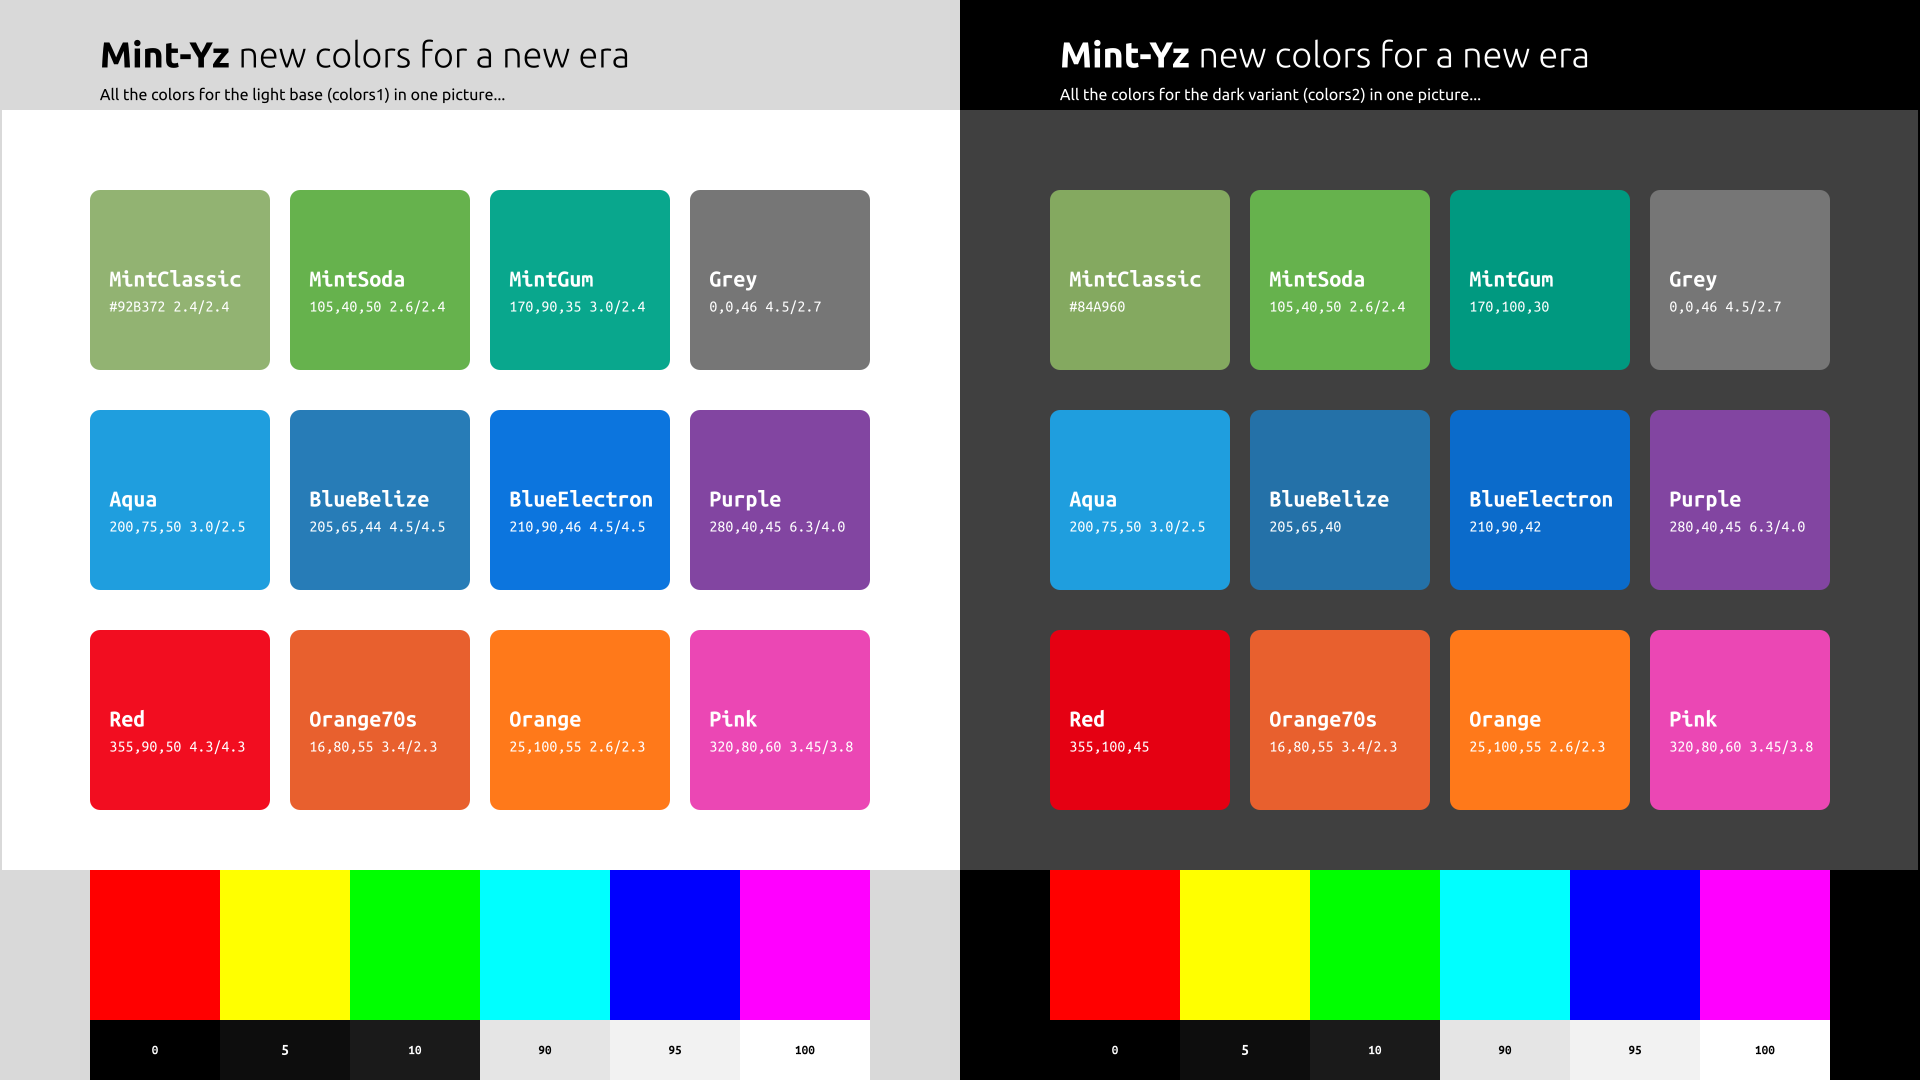
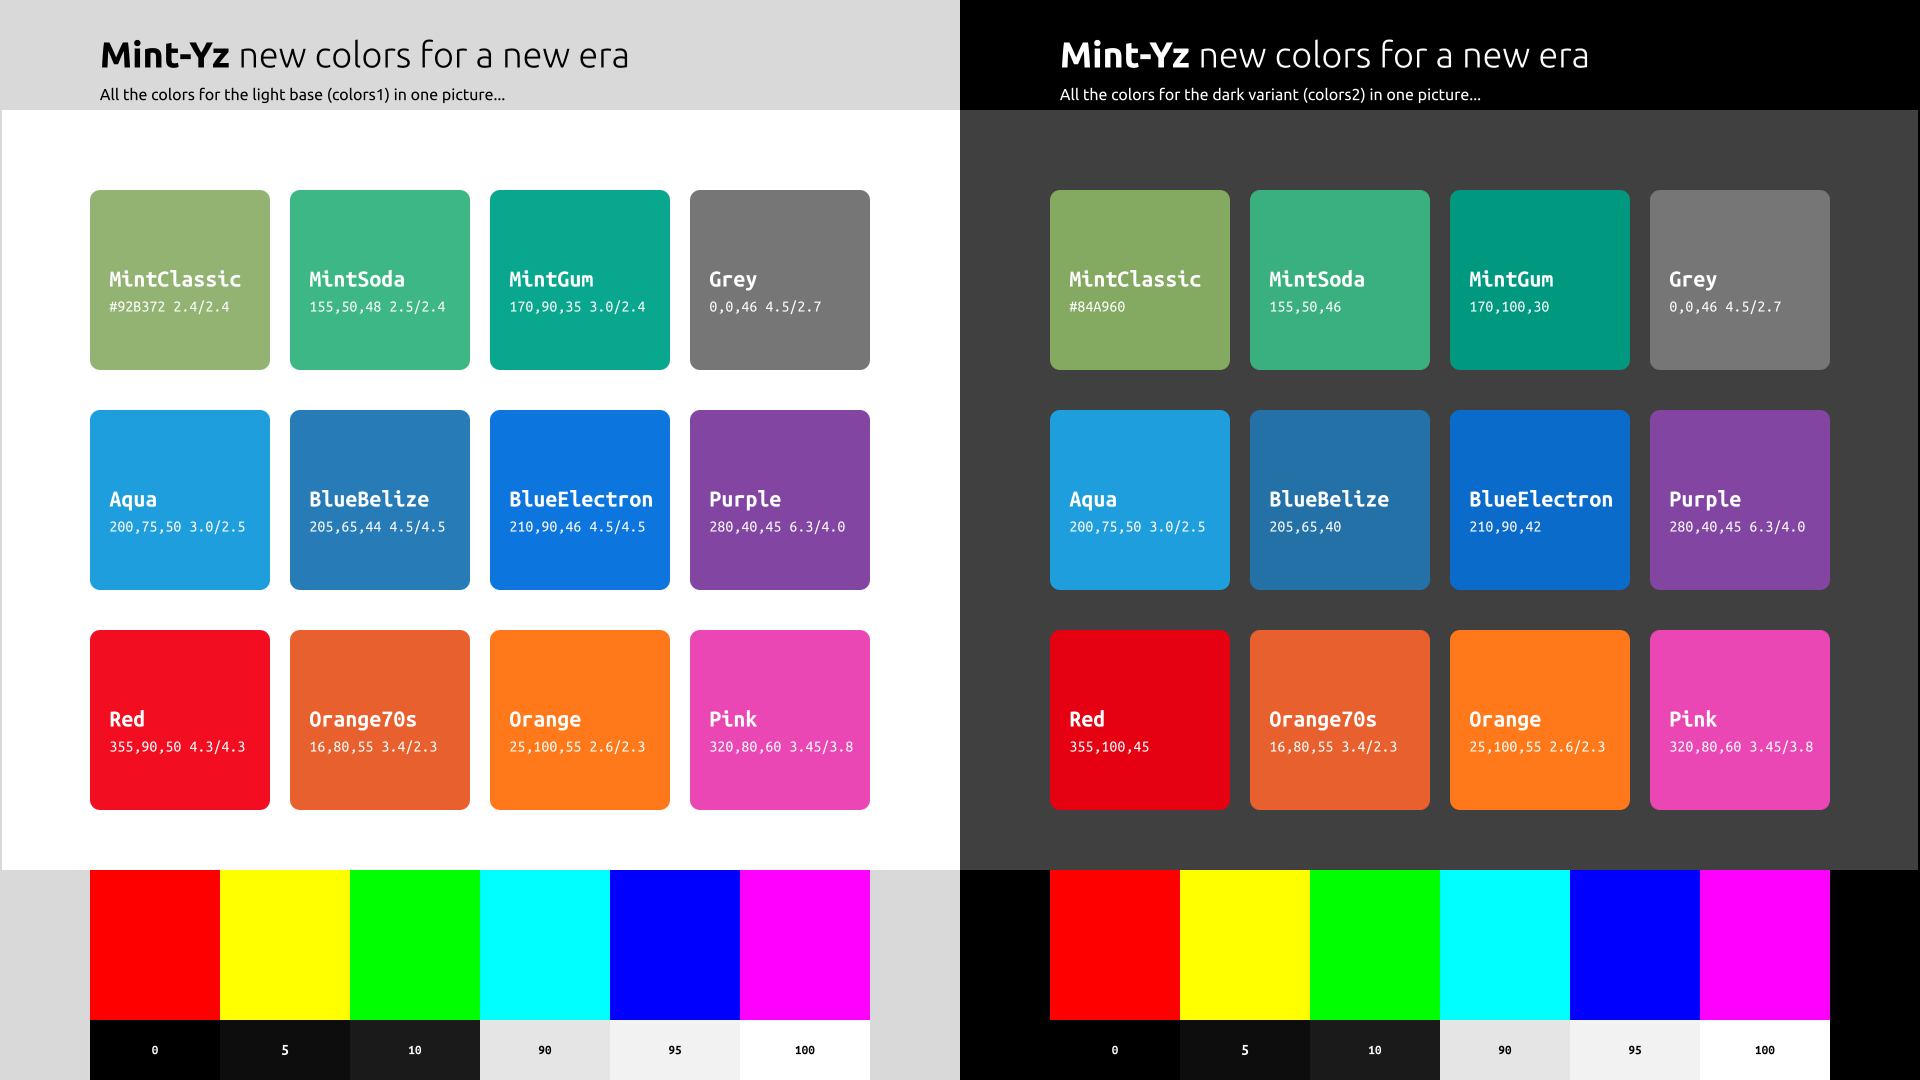
MINTSODA 3DB884 HSL=155,50,48 (2.5 color contrast)
modified:   Mint-Y-Colors/Mint-Y-Variations-compare-OLD.png
	modified:   Mint-Y-Colors/Mint-Y-Variations-compare-OLD.svg
	modified:   Mint-Y-Colors/Mint-Y-Variations.png
	modified:   Mint-Y-Colors/Mint-Y-Variations.svg
	modified:   constants.py

Changed region(s): [[0.625, 0.1528, 0.75, 0.3667], [0.125, 0.1528, 0.25, 0.3667]]

diff --git a/constants.py b/constants.py
@@ -14,8 +14,8 @@ Y_HEX_ACCENT2 = ["#8fa876"]  # DARK (You can't change these; sed uses them for s
 y_hex_colors1 = {}
 y_hex_colors2 = {}
 
-y_hex_colors1["MintSoda"] = "#66B24D"
-y_hex_colors2["MintSoda"] = "#66B24D"
+y_hex_colors1["MintSoda"] = "#3DB884"
+y_hex_colors2["MintSoda"] = "#3BB07F"
 
 y_hex_colors1["MintGum"] = "#09A78D"
 y_hex_colors2["MintGum"] = "#009980"
